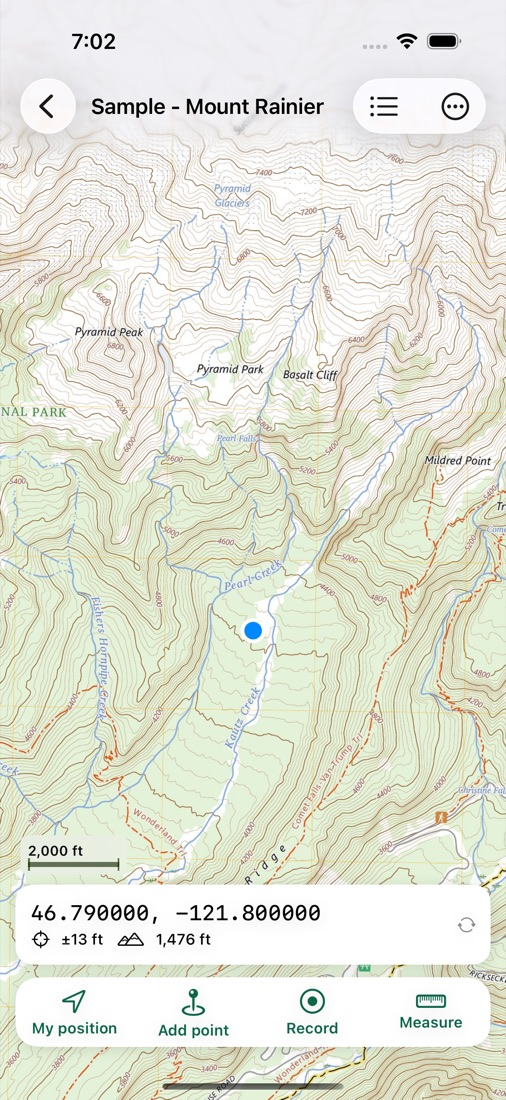
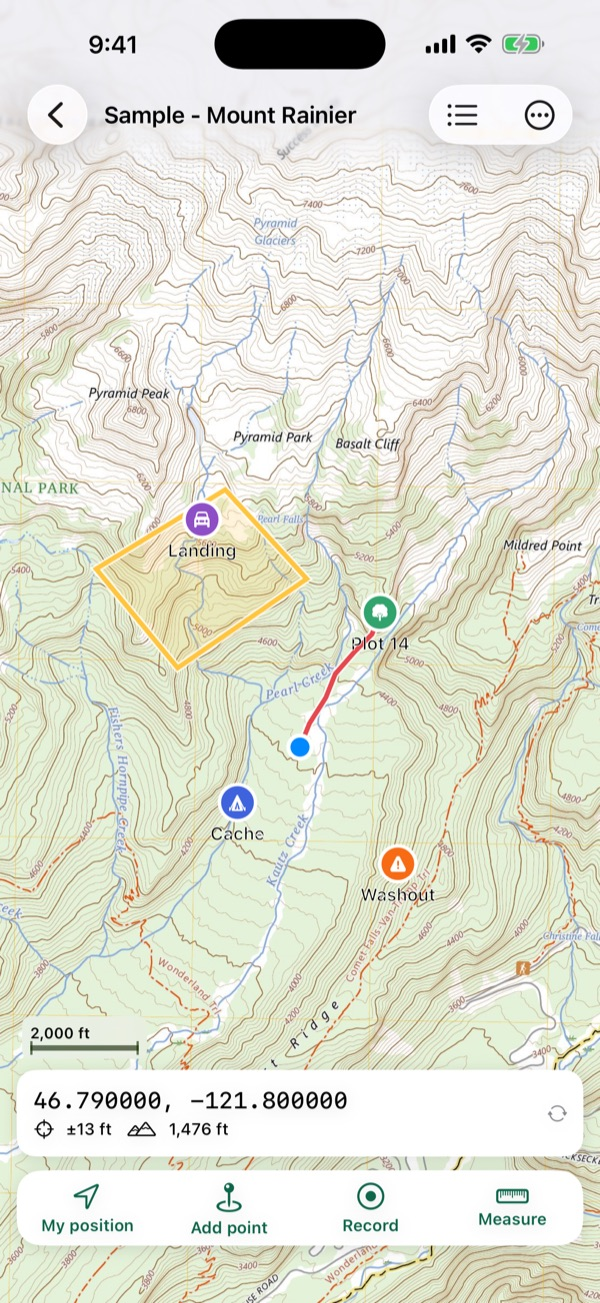
Final plans (Crew monthly, 3 maps at a time, maps never lock), new features, fresh screenshots

diff --git a/fr/index.html b/fr/index.html
@@ -4,9 +4,9 @@
 <header><a class="brand" href="index.html"><img src="../img/icon.png" alt="">Mapsheet</a>
 <nav><a href="index.html#features">Fonctions</a><a href="index.html#plans">Forfaits</a><a href="index.html#support">Aide</a><a href="../">English</a></nav></header>
 <div class="hero"><div><h1>Vos cartes, hors ligne, avec vous dessus.</h1><p class="lead">Ouvrez un plan de bloc, une carte de feu ou une carte topo — tout PDF géoréférencé ou GeoTIFF — et Mapsheet affiche votre position, sans réseau. Ajoutez des points avec photos, enregistrez des traces, mesurez des surfaces et envoyez des cartes à toute votre équipe d'un coup.</p><span class="badge">Bientôt sur l'App Store</span><div class="facts"><span>Sans compte</span><span>Fonctionne sans réseau</span><span>Usage professionnel inclus</span><span>Français et anglais</span></div></div>
-<img class="phone" src="../img/french.jpg" alt=""></div>
-<section id="features"><h2>Ce que fait Mapsheet</h2><div class="grid"><div class='card'><h3>Vos cartes, de partout</h3><p>PDF géoréférencés d'ArcGIS, QGIS, Global Mapper, RNCan et l'USGS (fichiers GeoPDF® compris) et GeoTIFF. Atlas de plusieurs pages, pages pivotées et téléchargements zippés.</p></div><div class='card'><h3>Vous sur la carte</h3><p>Position GPS, précision et direction sur la carte, même en mode avion. Les récepteurs GNSS Bluetooth jumelés dans iOS fonctionnent d'office.</p></div><div class='card'><h3>Points, traces, surfaces</h3><p>Points avec notes et photos, traces qui continuent avec l'écran verrouillé, lignes et surfaces mesurées en mètres, hectares ou acres.</p></div><div class='card'><h3>Marcher vers un point</h3><p>Distance et azimut entre vous et n'importe quel point — un centre de parcelle, une cache, un coin de bloc.</p></div><div class='card'><h3>Les coordonnées des équipes</h3><p>Lat/long, degrés-minutes, UTM et MGRS/USNG — affichées et saisies. Systèmes provinciaux intégrés : Albers C.-B., 10TM Alberta, MTM, Lambert Québec.</p></div><div class='card'><h3>Paquets d'équipe</h3><p>Le chef d'équipe envoie plusieurs cartes, points et photos en un seul fichier par AirDrop ou message. L'équipe l'ouvre gratuitement; les nouveaux points s'ajoutent aux siens.</p></div></div></section>
-<section><h2>Aperçu</h2><div class="shots"><figure><img src='../img/french.jpg' alt='En français, en mètres' loading='lazy'><figcaption>En français, en mètres</figcaption></figure><figure><img src='../img/point.jpg' alt='Distance et azimut vers un point' loading='lazy'><figcaption>Distance et azimut vers un point</figcaption></figure><figure><img src='../img/measure.jpg' alt='Mesurer une ligne ou une surface' loading='lazy'><figcaption>Mesurer une ligne ou une surface</figcaption></figure><figure><img src='../img/goto.jpg' alt='Aller à une coordonnée UTM ou MGRS' loading='lazy'><figcaption>Aller à une coordonnée UTM ou MGRS</figcaption></figure></div></section>
-<section id="plans"><h2>Forfaits</h2><div class="plans"><div class='card plan'><h3>Gratuit</h3><div class='price'>0 $</div><ul><li>Jusqu'à 3 cartes</li><li>GPS, points, traces, mesures</li><li>Exportation GPX, KML et CSV</li></ul></div><div class='card plan'><h3>Terrain</h3><div class='price'>59,99 $ US / an</div><ul><li>Cartes illimitées</li><li>Usage professionnel inclus — sans licence pro à part</li><li>Ou 9,99 $ US / mois pour le travail saisonnier</li></ul></div><div class='card plan'><h3>Équipe</h3><div class='price'>129,99 $ US / an par appareil</div><ul><li>Tout ce qu'offre Terrain</li><li>Envoyez des cartes à votre équipe en paquets</li><li>Votre équipe ouvre les paquets gratuitement</li></ul></div></div><p style="color:var(--muted);font-size:14px">Prix américains; l'App Store affiche le prix en dollars canadiens. Deux semaines gratuites sur les forfaits annuels pour les nouveaux abonnés.</p></section>
+<img class="phone" src="../img/fr-map.jpg" alt=""></div>
+<section id="features"><h2>Ce que fait Mapsheet</h2><div class="grid"><div class='card'><h3>Vos cartes, de partout</h3><p>PDF géoréférencés d'ArcGIS, QGIS, Global Mapper, RNCan et l'USGS (fichiers GeoPDF® compris) et GeoTIFF. Atlas de plusieurs pages, pages pivotées et téléchargements zippés.</p></div><div class='card'><h3>Vous sur la carte</h3><p>Position GPS, précision et direction sur la carte, même en mode avion. Les récepteurs GNSS Bluetooth jumelés dans iOS fonctionnent d'office.</p></div><div class='card'><h3>Points, traces, surfaces</h3><p>Points avec notes et photos, traces qui continuent avec l'écran verrouillé, lignes et surfaces mesurées en mètres, hectares ou acres.</p></div><div class='card'><h3>Marcher vers un point</h3><p>Distance et azimut entre vous et n'importe quel point — un centre de parcelle, une cache, un coin de bloc.</p></div><div class='card'><h3>Les coordonnées des équipes</h3><p>Lat/long, degrés-minutes, UTM et MGRS/USNG — affichées et saisies. Systèmes provinciaux intégrés : Albers C.-B., 10TM Alberta, MTM, Lambert Québec.</p></div><div class='card'><h3>Paquets d'équipe</h3><p>Le chef d'équipe envoie plusieurs cartes, points et photos en un seul fichier par AirDrop ou message. L'équipe l'ouvre gratuitement; les nouveaux points s'ajoutent aux siens.</p></div><div class='card'><h3>Corrigez sur le terrain</h3><p>Faites glisser un coin d'une surface ou d'une ligne pour le déplacer, touchez pour en ajouter un, maintenez pour le retirer. Des symboles pour vos points : parcelles, caches, dangers, jetées.</p></div><div class='card'><h3>Points précis</h3><p>Faites la moyenne de votre position GPS sur une demi-minute pour un centre de parcelle ou un coin, avec l'erreur type affichée (Équipe).</p></div><div class='card'><h3>Vers ArcGIS et QGIS</h3><p>Exportez en GPX, KML, KMZ et CSV avec colonnes UTM avec tous les forfaits; en shapefile avec Équipe. Importez GPX, KML et shapefiles.</p></div></div></section>
+<section><h2>Aperçu</h2><div class="shots"><figure><img src='../img/fr-map.jpg' alt='Votre position sur une carte topo' loading='lazy'><figcaption>Votre position sur une carte topo</figcaption></figure><figure><img src='../img/fr-point.jpg' alt='Distance et azimut vers un point' loading='lazy'><figcaption>Distance et azimut vers un point</figcaption></figure><figure><img src='../img/fr-edit.jpg' alt='Mesurer et modifier une surface' loading='lazy'><figcaption>Mesurer et modifier une surface</figcaption></figure><figure><img src='../img/fr-features.jpg' alt='Points, traces et surfaces' loading='lazy'><figcaption>Points, traces et surfaces</figcaption></figure></div></section>
+<section id="plans"><h2>Forfaits</h2><div class="plans"><div class='card plan'><h3>Gratuit</h3><div class='price'>0 $</div><ul><li>3 cartes à la fois — un atlas compte pour une</li><li>Tous les outils de terrain : GPS, points avec symboles et photos, traces, mesures, modification des formes</li><li>Exportation GPX, KML et CSV</li><li>Usage professionnel permis</li></ul></div><div class='card plan'><h3>Terrain</h3><div class='price'>59,99 $ US / an</div><ul><li>Cartes illimitées</li><li>Usage professionnel inclus — sans licence pro à part</li><li>Ou 9,99 $ US / mois pour le travail saisonnier</li></ul></div><div class='card plan'><h3>Équipe</h3><div class='price'>129,99 $ US / an par appareil</div><ul><li>Tout ce qu'offre Terrain</li><li>Envoyez des cartes à votre équipe en paquets — ouverts gratuitement</li><li>Moyenne GPS pour des points précis</li><li>Exportation en shapefile</li><li>Ou 19,99 $ US / mois par appareil</li></ul></div></div><p style="color:var(--muted);font-size:14px"><b>Vos cartes ne se verrouillent jamais.</b> Si un forfait prend fin, vous gardez toutes vos cartes; vous ne pouvez simplement plus en ajouter au-delà de trois. Prix américains; l'App Store affiche le prix en dollars canadiens. Deux semaines gratuites sur les forfaits annuels pour les nouveaux abonnés.</p></section>
 <section id="support"><h2>Questions et aide</h2><details><summary>Quelles cartes fonctionnent?</summary><p>Les PDF géoréférencés (y compris les fichiers GeoPDF®) et les GeoTIFF, aussi dans un zip. Un simple PDF sans coordonnées ne peut pas afficher votre position.</p></details><details><summary>Faut-il du réseau?</summary><p>Non. Les cartes sont sur votre téléphone et le GPS fonctionne partout où le ciel est visible.</p></details><details><summary>Puis-je l'utiliser au travail?</summary><p>Oui, avec tous les forfaits. Mapsheet ne facture pas de supplément pour l'usage professionnel.</p></details><details><summary>Comment mettre des cartes sur mon téléphone?</summary><p>Partagez le fichier vers Mapsheet depuis Mail, Fichiers, Drive ou AirDrop, ou touchez + dans la liste des cartes. Votre chef d'équipe peut envoyer un paquet d'équipe.</p></details><details><summary>Mes données sont-elles partagées?</summary><p>Non. Cartes, points, traces, photos et position restent sur votre appareil. Pas de compte, pas de serveur. Voir la <a href='confidentialite.html'>politique de confidentialité</a>.</p></details><p>Toujours bloqué? Écrivez à <b>laddothis at gmail dot com</b> en décrivant ce qui s'est passé et votre appareil. Réponse en moins d'un jour.</p></section>
 <footer>© 2026 Mapsheet · <a href="confidentialite.html">Politique de confidentialité</a> · Mapsheet n'est affilié ni à Avenza Systems, ni à TerraGo Technologies, ni à Esri, ni à l'USGS. GeoPDF est une marque déposée de TerraGo Technologies.</footer></div></body></html>

diff --git a/index.html b/index.html
@@ -5,8 +5,8 @@
 <nav><a href="index.html#features">Features</a><a href="index.html#plans">Plans</a><a href="index.html#support">Support</a><a href="fr/">Français</a></nav></header>
 <div class="hero"><div><h1>Your maps, offline, with you on them.</h1><p class="lead">Open a block map, a fire map or a topo — any geospatial PDF or GeoTIFF — and Mapsheet shows your position on it with no signal. Drop points with photos, record tracks, measure areas, and send maps to your whole crew at once.</p><span class="badge">Coming soon to the App Store</span><div class="facts"><span>No account</span><span>Works with no signal</span><span>Work use included</span><span>English and French</span></div></div>
 <img class="phone" src="img/map.jpg" alt=""></div>
-<section id="features"><h2>What Mapsheet does</h2><div class="grid"><div class='card'><h3>Your maps, any source</h3><p>Geospatial PDFs from ArcGIS, QGIS, Global Mapper, NRCan and USGS (GeoPDF® files included) and GeoTIFFs. Multi-page atlases, rotated pages and zipped downloads.</p></div><div class='card'><h3>You on the map</h3><p>GPS position, accuracy and heading on the map, even in airplane mode. Bluetooth GNSS receivers paired in iOS work automatically.</p></div><div class='card'><h3>Points, tracks, areas</h3><p>Points with notes and photos, tracks that keep recording with the phone locked, lines and areas measured in metres, hectares or acres.</p></div><div class='card'><h3>Walk to a point</h3><p>Distance and bearing from you to any point — a plot centre, a cache, a block corner.</p></div><div class='card'><h3>Coordinates crews use</h3><p>Lat/lon, degrees-minutes, UTM and MGRS/USNG — shown and typed. Canada's provincial systems built in: BC Albers, Alberta 10TM, MTM, Quebec Lambert.</p></div><div class='card'><h3>Crew packs</h3><p>A crew lead sends several maps, points and photos in one file by AirDrop or message. The crew opens it free; new points merge with theirs.</p></div></div></section>
-<section><h2>See it</h2><div class="shots"><figure><img src='img/map.jpg' alt='Your position on a USGS topo' loading='lazy'><figcaption>Your position on a USGS topo</figcaption></figure><figure><img src='img/point.jpg' alt='Distance and bearing to a point' loading='lazy'><figcaption>Distance and bearing to a point</figcaption></figure><figure><img src='img/measure.jpg' alt='Measure a line or an area' loading='lazy'><figcaption>Measure a line or an area</figcaption></figure><figure><img src='img/goto.jpg' alt='Go to a UTM or MGRS coordinate' loading='lazy'><figcaption>Go to a UTM or MGRS coordinate</figcaption></figure></div></section>
-<section id="plans"><h2>Plans</h2><div class="plans"><div class='card plan'><h3>Free</h3><div class='price'>$0</div><ul><li>Up to 3 maps</li><li>GPS, points, tracks, measuring</li><li>GPX, KML and CSV export</li></ul></div><div class='card plan'><h3>Field</h3><div class='price'>$59.99 / year</div><ul><li>Unlimited maps</li><li>Work use included — no separate pro licence</li><li>Or $9.99 / month for seasonal work</li></ul></div><div class='card plan'><h3>Crew</h3><div class='price'>$129.99 / year per device</div><ul><li>Everything in Field</li><li>Send maps to your crew as crew packs</li><li>Your crew opens packs free</li></ul></div></div><p style="color:var(--muted);font-size:14px">US prices; local prices in other countries. New subscribers get two weeks free on yearly plans.</p></section>
+<section id="features"><h2>What Mapsheet does</h2><div class="grid"><div class='card'><h3>Your maps, any source</h3><p>Geospatial PDFs from ArcGIS, QGIS, Global Mapper, NRCan and USGS (GeoPDF® files included) and GeoTIFFs. Multi-page atlases, rotated pages and zipped downloads.</p></div><div class='card'><h3>You on the map</h3><p>GPS position, accuracy and heading on the map, even in airplane mode. Bluetooth GNSS receivers paired in iOS work automatically.</p></div><div class='card'><h3>Points, tracks, areas</h3><p>Points with notes and photos, tracks that keep recording with the phone locked, lines and areas measured in metres, hectares or acres.</p></div><div class='card'><h3>Walk to a point</h3><p>Distance and bearing from you to any point — a plot centre, a cache, a block corner.</p></div><div class='card'><h3>Coordinates crews use</h3><p>Lat/lon, degrees-minutes, UTM and MGRS/USNG — shown and typed. Canada's provincial systems built in: BC Albers, Alberta 10TM, MTM, Quebec Lambert.</p></div><div class='card'><h3>Crew packs</h3><p>A crew lead sends several maps, points and photos in one file by AirDrop or message. The crew opens it free; new points merge with theirs.</p></div><div class='card'><h3>Fix it in the field</h3><p>Drag a corner of an area or line to move it, tap to add one, press and hold to remove one. Mark points with symbols: plots, caches, hazards, landings.</p></div><div class='card'><h3>Precise points</h3><p>Average your GPS position over half a minute for a plot centre or a corner, with the standard error shown (Crew).</p></div><div class='card'><h3>Into ArcGIS and QGIS</h3><p>Export GPX, KML, KMZ and CSV with UTM columns on every plan; shapefiles on Crew. Import GPX, KML and shapefiles back.</p></div></div></section>
+<section><h2>See it</h2><div class="shots"><figure><img src='img/map.jpg' alt='Your position on a USGS topo' loading='lazy'><figcaption>Your position on a USGS topo</figcaption></figure><figure><img src='img/point.jpg' alt='Distance and bearing to a point' loading='lazy'><figcaption>Distance and bearing to a point</figcaption></figure><figure><img src='img/edit.jpg' alt='Measure and edit an area' loading='lazy'><figcaption>Measure and edit an area</figcaption></figure><figure><img src='img/features.jpg' alt='Points, tracks and areas' loading='lazy'><figcaption>Points, tracks and areas</figcaption></figure></div></section>
+<section id="plans"><h2>Plans</h2><div class="plans"><div class='card plan'><h3>Free</h3><div class='price'>$0</div><ul><li>3 maps at a time — an atlas counts once</li><li>Every field tool: GPS, points with symbols and photos, tracks, measuring, shape editing</li><li>GPX, KML and CSV export</li><li>Work use allowed</li></ul></div><div class='card plan'><h3>Field</h3><div class='price'>$59.99 / year</div><ul><li>Unlimited maps</li><li>Work use included — no separate pro licence</li><li>Or $9.99 / month for seasonal work</li></ul></div><div class='card plan'><h3>Crew</h3><div class='price'>$129.99 / year per device</div><ul><li>Everything in Field</li><li>Send maps to your crew as crew packs — they open them free</li><li>GPS averaging for precise points</li><li>Shapefile export</li><li>Or $19.99 / month per device</li></ul></div></div><p style="color:var(--muted);font-size:14px"><b>Your maps never lock.</b> If a plan ends you keep every map; you just can't add more past three. US prices; local prices in other countries. Two weeks free on yearly plans for new subscribers.</p></section>
 <section id="support"><h2>Questions and support</h2><details><summary>Which maps work?</summary><p>Geospatial PDFs (including GeoPDF® files) and GeoTIFFs, also inside a zip. A plain PDF without map coordinates can't show your position.</p></details><details><summary>Do I need a signal?</summary><p>No. Maps live on your phone and GPS works anywhere with a view of the sky.</p></details><details><summary>Can I use it for work?</summary><p>Yes, on every plan. Mapsheet doesn't charge extra for professional use.</p></details><details><summary>How do I get maps onto my phone?</summary><p>Share the file to Mapsheet from Mail, Files, Drive or AirDrop, or tap + in the map list. Your crew lead can send a crew pack.</p></details><details><summary>Is my data shared?</summary><p>No. Maps, points, tracks, photos and your position stay on your device. There's no account and no server. See the <a href='privacy.html'>privacy policy</a>.</p></details><p>Still stuck? Write to <b>laddothis at gmail dot com</b> with what happened and your device. We answer within a day.</p></section>
 <footer>© 2026 Mapsheet · <a href="privacy.html">Privacy policy</a> · Mapsheet is not affiliated with Avenza Systems, TerraGo Technologies, Esri or the USGS. GeoPDF is a registered trademark of TerraGo Technologies.</footer></div></body></html>

diff --git a/build.py b/build.py
@@ -41,13 +41,16 @@ T = {
          ("Points, tracks, areas","Points with notes and photos, tracks that keep recording with the phone locked, lines and areas measured in metres, hectares or acres."),
          ("Walk to a point","Distance and bearing from you to any point — a plot centre, a cache, a block corner."),
          ("Coordinates crews use","Lat/lon, degrees-minutes, UTM and MGRS/USNG — shown and typed. Canada's provincial systems built in: BC Albers, Alberta 10TM, MTM, Quebec Lambert."),
-         ("Crew packs","A crew lead sends several maps, points and photos in one file by AirDrop or message. The crew opens it free; new points merge with theirs.")],
-  shotsH="See it", shots=[("map","Your position on a USGS topo"),("point","Distance and bearing to a point"),("measure","Measure a line or an area"),("goto","Go to a UTM or MGRS coordinate")],
+         ("Crew packs","A crew lead sends several maps, points and photos in one file by AirDrop or message. The crew opens it free; new points merge with theirs."),
+         ("Fix it in the field","Drag a corner of an area or line to move it, tap to add one, press and hold to remove one. Mark points with symbols: plots, caches, hazards, landings."),
+         ("Precise points","Average your GPS position over half a minute for a plot centre or a corner, with the standard error shown (Crew)."),
+         ("Into ArcGIS and QGIS","Export GPX, KML, KMZ and CSV with UTM columns on every plan; shapefiles on Crew. Import GPX, KML and shapefiles back.")],
+  shotsH="See it", shots=[("map","Your position on a USGS topo"),("point","Distance and bearing to a point"),("edit","Measure and edit an area"),("features","Points, tracks and areas")],
   plansH="Plans",
-  plans=[("Free","$0",["Up to 3 maps","GPS, points, tracks, measuring","GPX, KML and CSV export"]),
+  plans=[("Free","$0",["3 maps at a time — an atlas counts once","Every field tool: GPS, points with symbols and photos, tracks, measuring, shape editing","GPX, KML and CSV export","Work use allowed"]),
          ("Field","$59.99 / year",["Unlimited maps","Work use included — no separate pro licence","Or $9.99 / month for seasonal work"]),
-         ("Crew","$129.99 / year per device",["Everything in Field","Send maps to your crew as crew packs","Your crew opens packs free"])],
-  plansNote="US prices; local prices in other countries. New subscribers get two weeks free on yearly plans.",
+         ("Crew","$129.99 / year per device",["Everything in Field","Send maps to your crew as crew packs — they open them free","GPS averaging for precise points","Shapefile export","Or $19.99 / month per device"])],
+  plansNote="<b>Your maps never lock.</b> If a plan ends you keep every map; you just can't add more past three. US prices; local prices in other countries. Two weeks free on yearly plans for new subscribers.",
   faqH="Questions and support",
   faq=[("Which maps work?","Geospatial PDFs (including GeoPDF® files) and GeoTIFFs, also inside a zip. A plain PDF without map coordinates can't show your position."),
        ("Do I need a signal?","No. Maps live on your phone and GPS works anywhere with a view of the sky."),
@@ -86,13 +89,16 @@ T = {
          ("Points, traces, surfaces","Points avec notes et photos, traces qui continuent avec l'écran verrouillé, lignes et surfaces mesurées en mètres, hectares ou acres."),
          ("Marcher vers un point","Distance et azimut entre vous et n'importe quel point — un centre de parcelle, une cache, un coin de bloc."),
          ("Les coordonnées des équipes","Lat/long, degrés-minutes, UTM et MGRS/USNG — affichées et saisies. Systèmes provinciaux intégrés : Albers C.-B., 10TM Alberta, MTM, Lambert Québec."),
-         ("Paquets d'équipe","Le chef d'équipe envoie plusieurs cartes, points et photos en un seul fichier par AirDrop ou message. L'équipe l'ouvre gratuitement; les nouveaux points s'ajoutent aux siens.")],
-  shotsH="Aperçu", shots=[("french","En français, en mètres"),("point","Distance et azimut vers un point"),("measure","Mesurer une ligne ou une surface"),("goto","Aller à une coordonnée UTM ou MGRS")],
+         ("Paquets d'équipe","Le chef d'équipe envoie plusieurs cartes, points et photos en un seul fichier par AirDrop ou message. L'équipe l'ouvre gratuitement; les nouveaux points s'ajoutent aux siens."),
+         ("Corrigez sur le terrain","Faites glisser un coin d'une surface ou d'une ligne pour le déplacer, touchez pour en ajouter un, maintenez pour le retirer. Des symboles pour vos points : parcelles, caches, dangers, jetées."),
+         ("Points précis","Faites la moyenne de votre position GPS sur une demi-minute pour un centre de parcelle ou un coin, avec l'erreur type affichée (Équipe)."),
+         ("Vers ArcGIS et QGIS","Exportez en GPX, KML, KMZ et CSV avec colonnes UTM avec tous les forfaits; en shapefile avec Équipe. Importez GPX, KML et shapefiles.")],
+  shotsH="Aperçu", shots=[("fr-map","Votre position sur une carte topo"),("fr-point","Distance et azimut vers un point"),("fr-edit","Mesurer et modifier une surface"),("fr-features","Points, traces et surfaces")],
   plansH="Forfaits",
-  plans=[("Gratuit","0 $",["Jusqu'à 3 cartes","GPS, points, traces, mesures","Exportation GPX, KML et CSV"]),
+  plans=[("Gratuit","0 $",["3 cartes à la fois — un atlas compte pour une","Tous les outils de terrain : GPS, points avec symboles et photos, traces, mesures, modification des formes","Exportation GPX, KML et CSV","Usage professionnel permis"]),
          ("Terrain","59,99 $ US / an",["Cartes illimitées","Usage professionnel inclus — sans licence pro à part","Ou 9,99 $ US / mois pour le travail saisonnier"]),
-         ("Équipe","129,99 $ US / an par appareil",["Tout ce qu'offre Terrain","Envoyez des cartes à votre équipe en paquets","Votre équipe ouvre les paquets gratuitement"])],
-  plansNote="Prix américains; l'App Store affiche le prix en dollars canadiens. Deux semaines gratuites sur les forfaits annuels pour les nouveaux abonnés.",
+         ("Équipe","129,99 $ US / an par appareil",["Tout ce qu'offre Terrain","Envoyez des cartes à votre équipe en paquets — ouverts gratuitement","Moyenne GPS pour des points précis","Exportation en shapefile","Ou 19,99 $ US / mois par appareil"])],
+  plansNote="<b>Vos cartes ne se verrouillent jamais.</b> Si un forfait prend fin, vous gardez toutes vos cartes; vous ne pouvez simplement plus en ajouter au-delà de trois. Prix américains; l'App Store affiche le prix en dollars canadiens. Deux semaines gratuites sur les forfaits annuels pour les nouveaux abonnés.",
   faqH="Questions et aide",
   faq=[("Quelles cartes fonctionnent?","Les PDF géoréférencés (y compris les fichiers GeoPDF®) et les GeoTIFF, aussi dans un zip. Un simple PDF sans coordonnées ne peut pas afficher votre position."),
        ("Faut-il du réseau?","Non. Les cartes sont sur votre téléphone et le GPS fonctionne partout où le ciel est visible."),
@@ -136,7 +142,7 @@ for key, t in T.items():
     plans = "".join(f"<div class='card plan'><h3>{n}</h3><div class='price'>{p}</div><ul>{''.join(f'<li>{x}</li>' for x in items)}</ul></div>" for n, p, items in t["plans"])
     faq = "".join(f"<details><summary>{q}</summary><p>{a.format(privacy=t['privacyFile'])}</p></details>" for q, a in t["faq"])
     facts = "".join(f"<span>{f}</span>" for f in t["facts"])
-    hero_img = "map" if key == "en" else "french"
+    hero_img = "map" if key == "en" else "fr-map"
     body = f"""<div class="hero"><div><h1>{t['h1']}</h1><p class="lead">{t['lead']}</p><span class="badge">{t['soon']}</span><div class="facts">{facts}</div></div>
 <img class="phone" src="{r}img/{hero_img}.jpg" alt=""></div>
 <section id="features"><h2>{t['featH']}</h2><div class="grid">{feats}</div></section>
